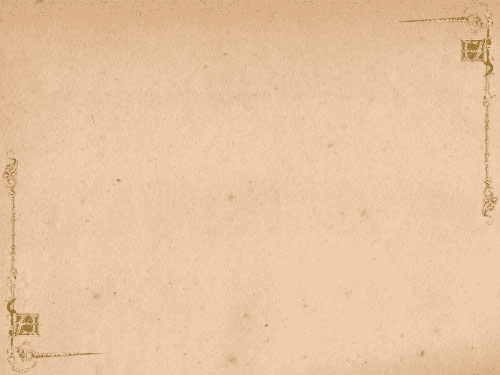
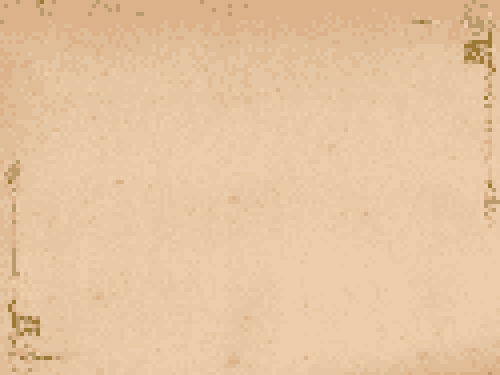
cortando imagens46545

diff --git a/src/app/home/page.css b/src/app/home/page.css
@@ -195,7 +195,7 @@
     display: flex;
     align-items: center;
     justify-content: center;
-    background-image: url("background.webp");
+    background-image: url("background.png");
     background-size: 100% 100%;
     background-repeat: no-repeat;
 }
